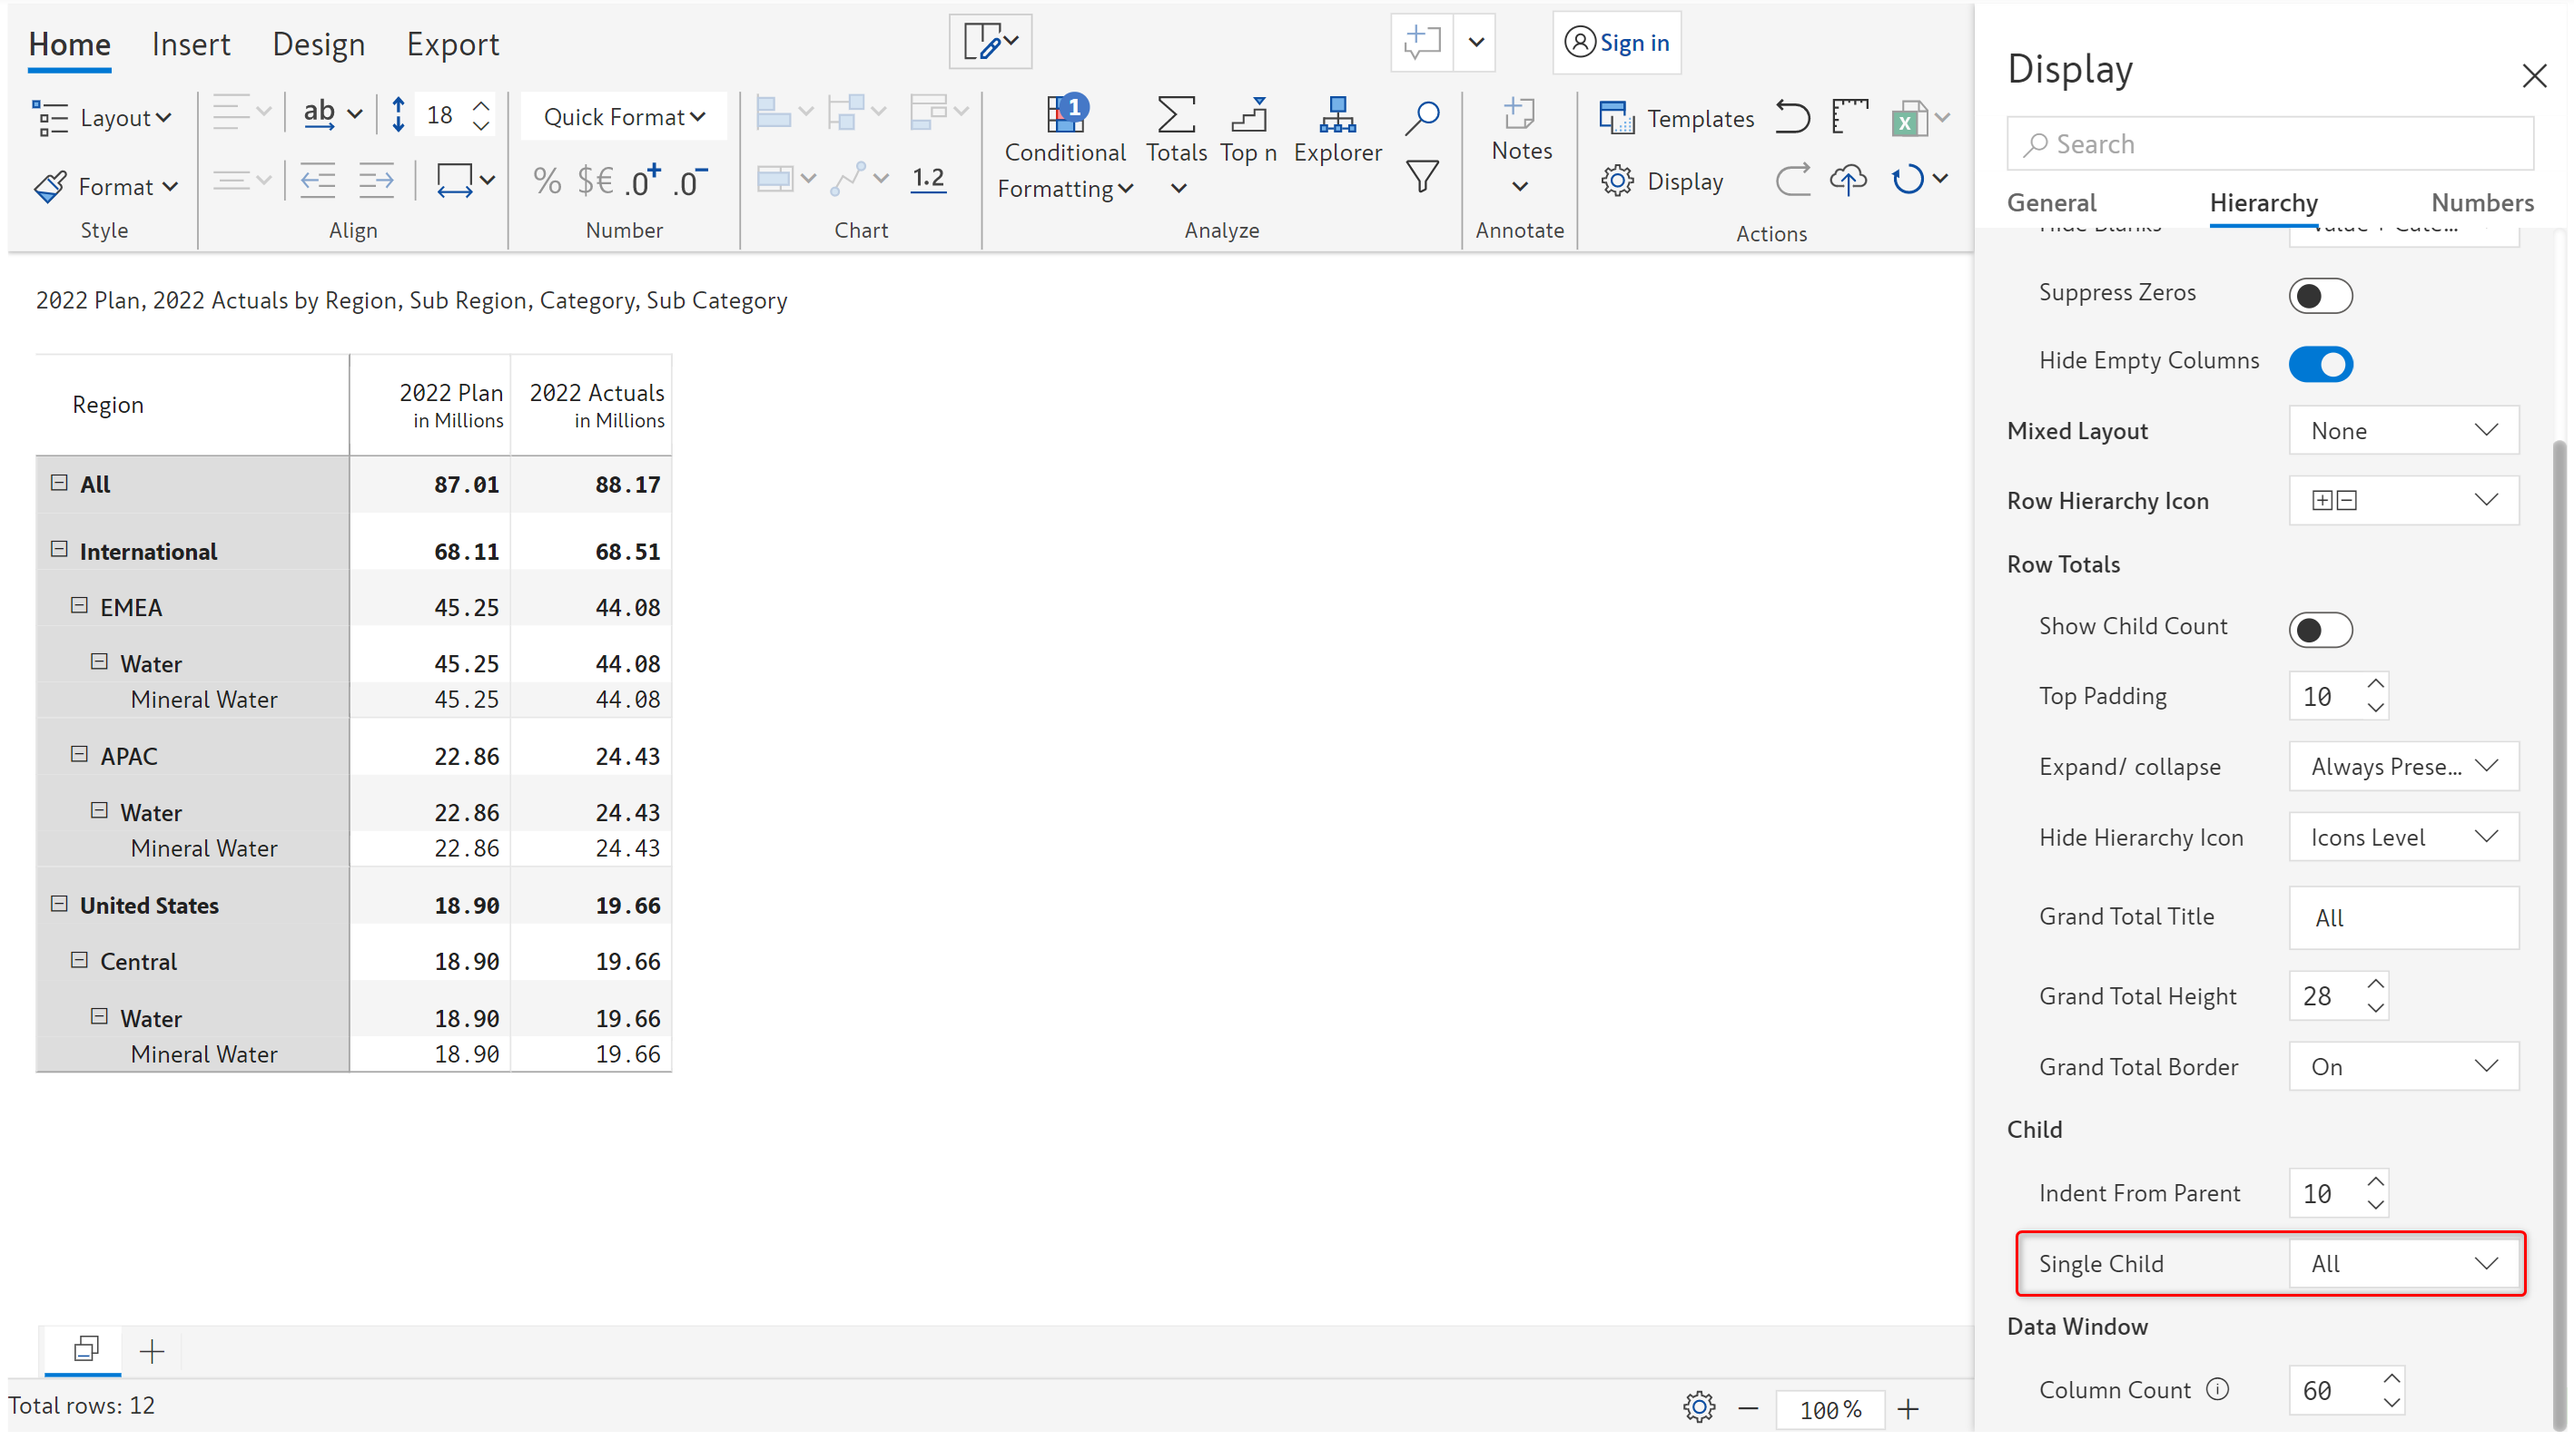
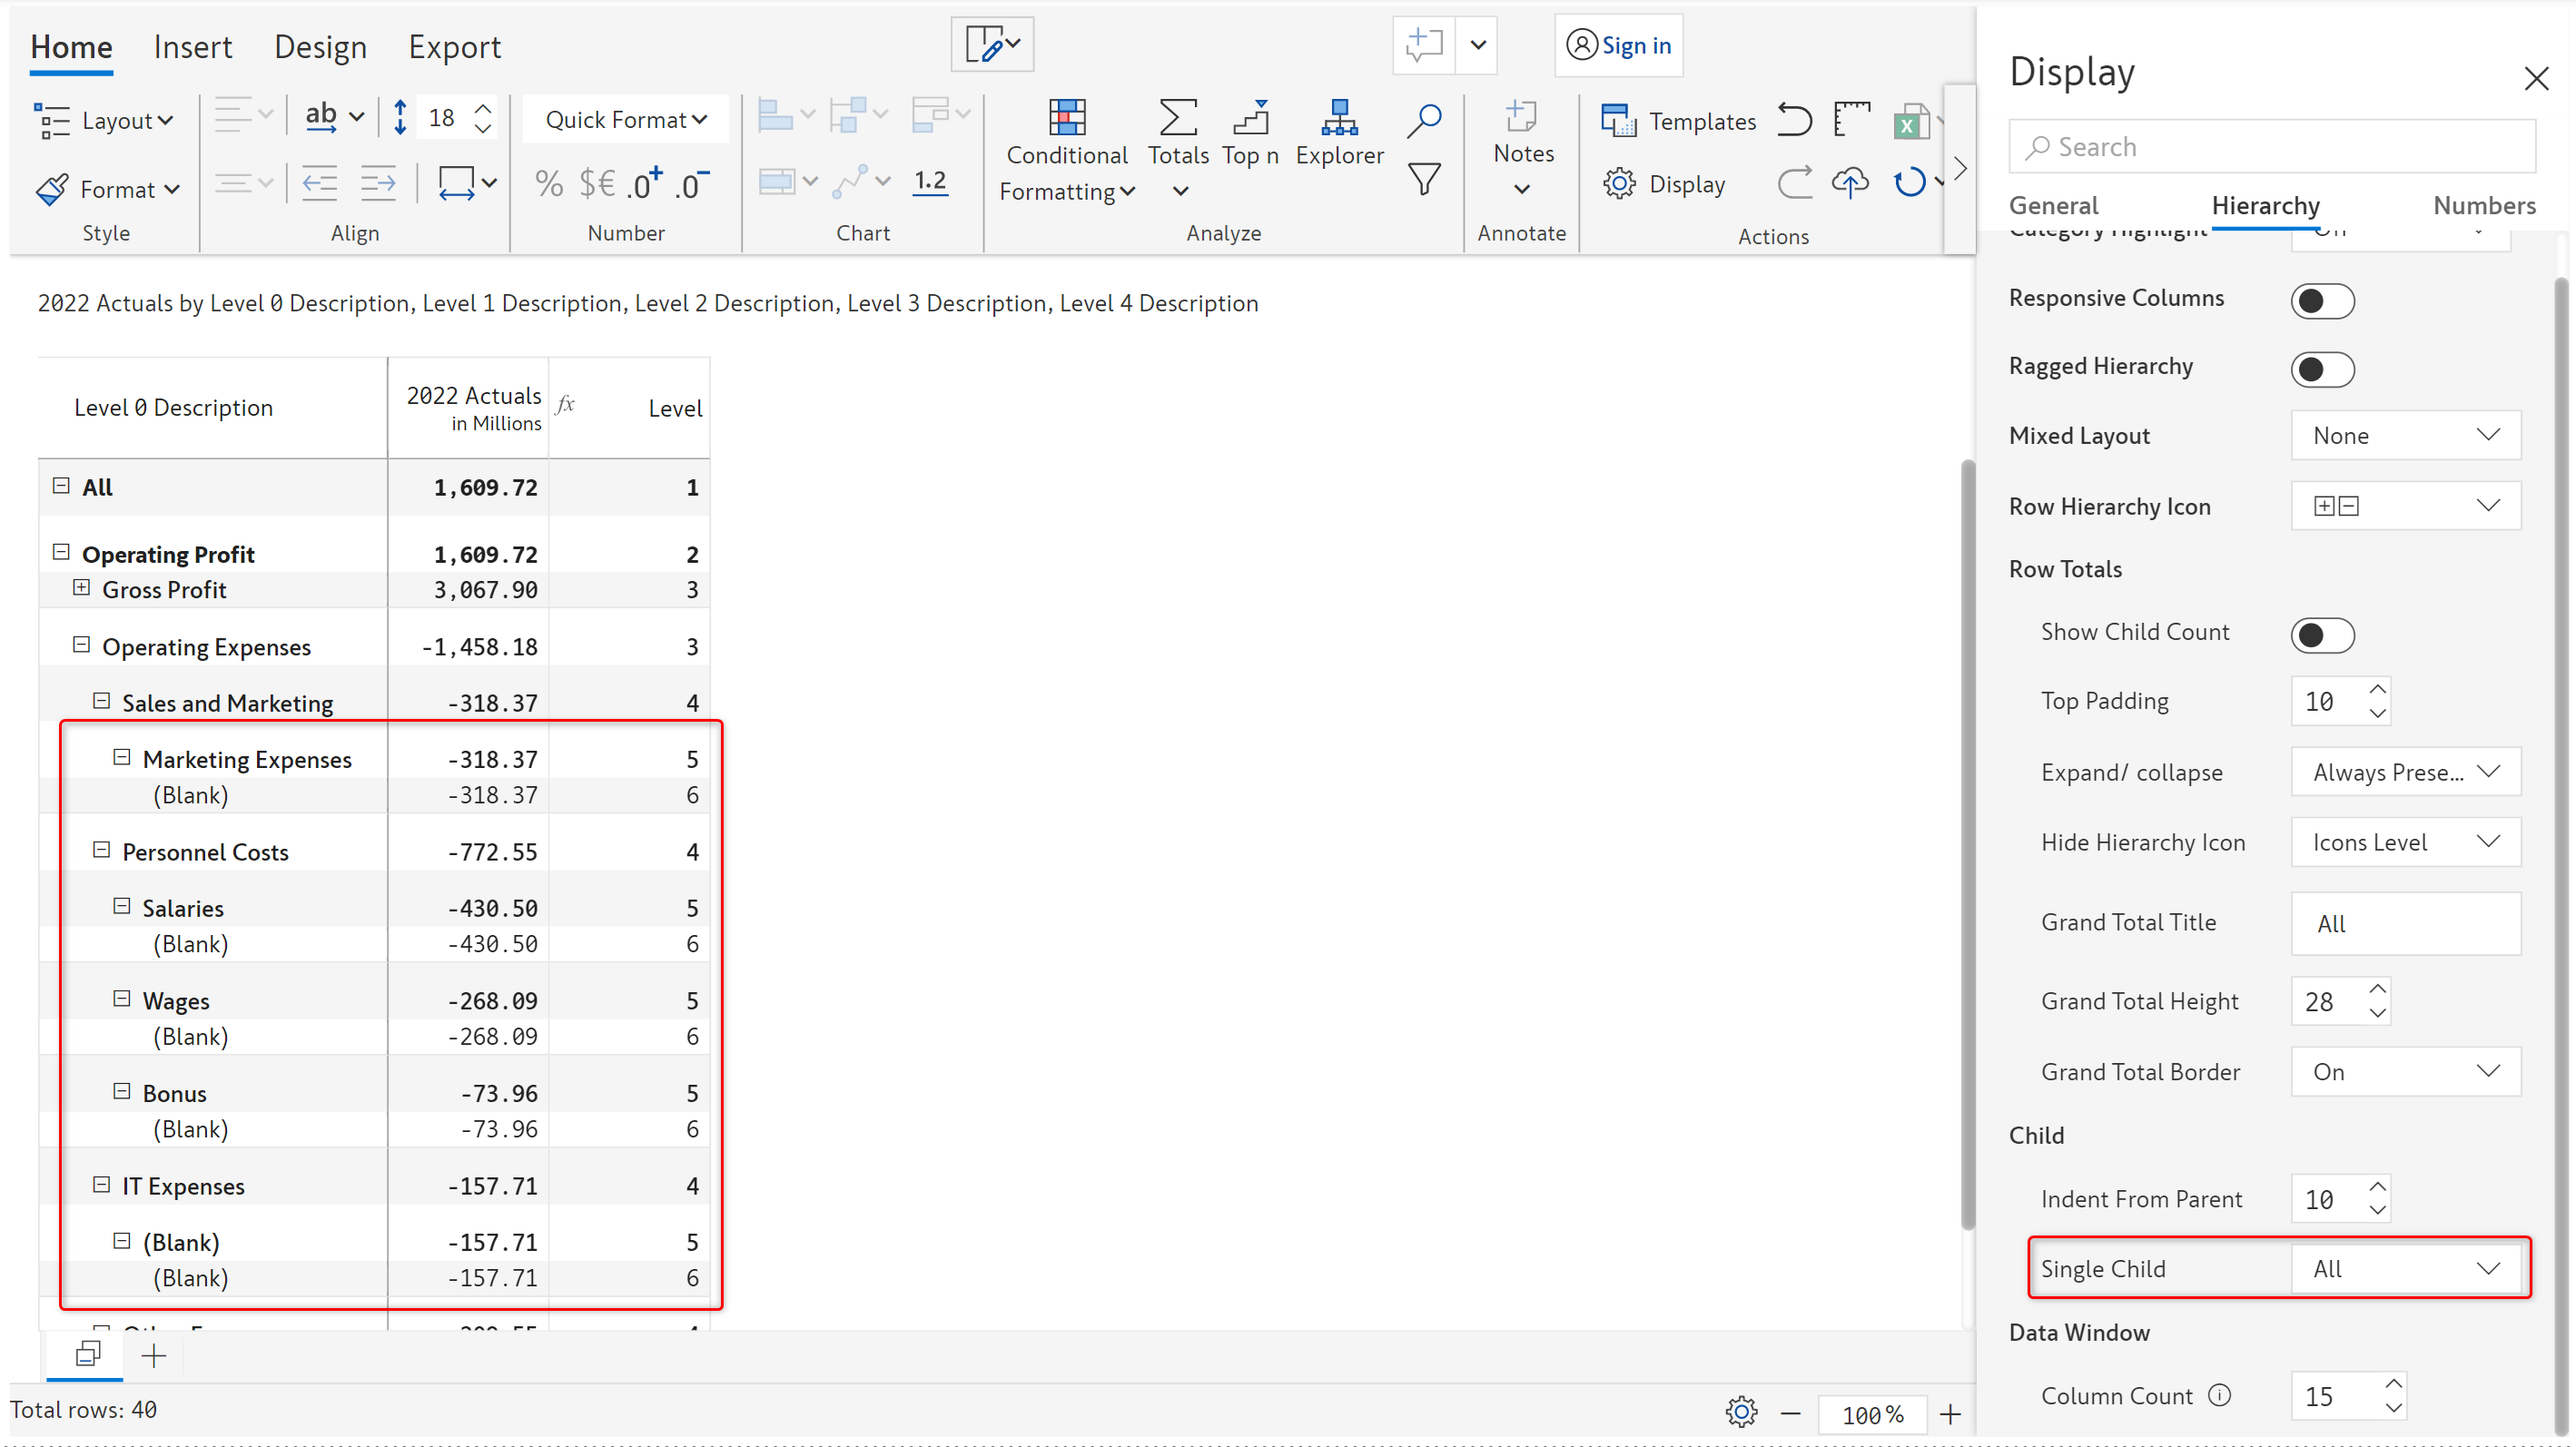
GitBook: [#192] Hierarchy

diff --git a/inforiver-matrix-faqs.md b/inforiver-matrix-faqs.md
@@ -1,8 +1,8 @@
-# Inforiver Matrix
+# Inforiver Matrix FAQs
 
 #### 1.  How do I purchase Inforiver Matrix? <a href="#headline-592-2838" id="headline-592-2838"></a>
 
-Visit Microsoft Appsource to purchase licenses for [Inforiver Matrix](https://appsource.microsoft.com/en-us/product/power-bi-visuals/xviz.inforiver-premium?tab=Overview). Subscription is available by tier and the fee varies based on the plans. To learn how to set up, pay for, and manage licenses for custom Power BI visuals purchased from [AppSource](https://appsource.microsoft.com/), refer to this [article](https://learn.microsoft.com/en-us/power-bi/developer/visuals/licensing-faq).
+Visit Microsoft Appsource to purchase licenses for [Inforiver Matrix](https://appsource.microsoft.com/en-us/product/power-bi-visuals/xviz.inforiver-premium?tab=Overview). Subscription is available by tier and the fee varies based on the plans. To learn how to set up, pay for, and manage licenses for custom Power BI visuals purchased from AppSource, refer to this [article](https://learn.microsoft.com/en-us/power-bi/developer/visuals/licensing-faq).
 
 For other Inforiver licensing-related queries, visit the [General FAQ](https://inforiver.com/faq/) page.
 
@@ -26,7 +26,7 @@ With our enterprise edition – you can save your theme, settings, etc., and it 
 
 #### 6. Can I use Inforiver for budgeting/forecasting? <a href="#headline-608-2838" id="headline-608-2838"></a>
 
-YES. With Inforiver Premium Matrix and Enterprise, you can input and create new budgets or forecasts in seconds. Specifically, you can (a) Create forecasts based on past sales data, (b) Create forecasts from a blank template, (c) Allocate forecasts across countries or product categories proportional to past performance, (d) Perform dynamic what-if simulations to adjust forecasts using a slider interface (e) Comment and annotate on budgets, forecasts, plan, or variance data points, and (f) writeback forecast data along with notes & comments.
+Yes. With Inforiver Premium Matrix and Enterprise, you can input and create new budgets or forecasts in seconds. Specifically, you can (a) Create forecasts based on past sales data, (b) Create forecasts from a blank template, (c) Allocate forecasts across countries or product categories proportional to past performance, (d) Perform dynamic what-if simulations to adjust forecasts using a slider interface (e) Comment and annotate on budgets, forecasts, plan, or variance data points, and (f) writeback forecast data along with notes & comments.
 
 Note: Points e and f are supported only in Inforiver Enterprise
 
@@ -45,7 +45,7 @@ We also recommend that you don’t compare the performance of Inforiver matrix v
 
 #### 8. Is there a limit to the number of pages that can be exported? <a href="#headline-652-2838" id="headline-652-2838"></a>
 
-We offer a formatted and paginated export solution. So, there is a limit of 30k rows for Excel and 1000 pages for PDF for performance and fidelity reasons on the quality of the export.
+We offer a formatted and paginated export solution. So, there is a limit of 30k rows for Excel and 10MB for PDF for performance and fidelity reasons on the quality of the export.
 
 #### 9. What are the collaboration options available? <a href="#headline-612-2838" id="headline-612-2838"></a>
 
@@ -75,8 +75,8 @@ Inforiver [scheduler](https://inforiver.com/schedule-reports-powerbi/) supports 
 
 #### 13. Can we build our own product incorporating Inforiver and sell it to our customers for a license or subscription free? (OEM licensing) <a href="#headline-656-4516" id="headline-656-4516"></a>
 
-Yes. For bundling (OEM) Inforiver fully or partially with your own products or services to your customers or any third party, a separate licensing plan is available. This would be based on the number of developers or customers. [Contact us](https://inforiver.com/contact-us/) to learn more.
+Yes. For bundling (OEM) Inforiver fully or partially with your own products or services to your customers or any third party, a separate licensing plan is available on the [Inforiver website](https://inforiver.com/matrix/pricing/). This would be based on the number of developers or customers.&#x20;
 
 #### 14. Can we build Power BI reports which can be consumed by external organizations for a service fee? (Embedded licensing) <a href="#headline-673-4516" id="headline-673-4516"></a>
 
-Yes. For embedding Inforiver fully or partially with your own products or services, a separate licensing plan is available. This would be based on the number of developers. [Contact us](https://inforiver.com/contact-us/) to learn more.
+Yes. For embedding Inforiver fully or partially with your own products or services, a separate licensing plan is available on the [Inforiver website](https://inforiver.com/matrix/pricing/). This would be based on the number of developers.&#x20;

diff --git a/display-settings/hierarchy-settings.md b/display-settings/hierarchy-settings.md
@@ -171,27 +171,35 @@ In the image below, every child row has been indented from its parent row by the
 
 #### Single child&#x20;
 
-Using this option you can select which nodes to display when a parent hierarchy has only one child. In this example, there is only one subcategory 'Mineral Water' and one sub-region 'Central' in United States. Let's see how this subcategory and subregion are displayed for each of the options.
+Using this option you can select which nodes to display when a parent hierarchy has only one child. In this example, we have a multi-level account hierarchy with several single-child rows and blank rows.&#x20;
 
-* **All** - Displays all the rows i.e the parent rows and the single child rows. Mineral water and Central rows are shown.
+The sales and marketing expenses row has only one child. The personnel cost row's child rows have blank rows. Let's see how this report is displayed for each of the options.
+
+* **All** - Displays all the rows i.e the parent rows and the single child rows. There are blank rows at levels 5 and 6.
 
 <figure><img src="../.gitbook/assets/Single child all.png" alt=""><figcaption><p>Single child - All</p></figcaption></figure>
 
-* **Parent only** - Displays the parent nodes of the single child. The 'Mineral water' row is not shown but 'Central' is shown.
+* **Parent only** - Displays the parent nodes of the single child. The blank rows at level 6 have all been hidden as shown below. The blank rows at level 5 are still shown.&#x20;
 
 <figure><img src="../.gitbook/assets/Single child parent only.png" alt=""><figcaption><p>Single child - Parent only</p></figcaption></figure>
 
-* **Parent (Multi-level) -** Displays only the highest level row of the multi-level hierarchy. Both 'Mineral water' and 'Central' are not shown.
+* **Parent (Multi-level) -** Displays only the highest level row of the multi-level hierarchy. The blank rows at both levels 5 and 6 are not shown.&#x20;
 
-<figure><img src="../.gitbook/assets/Single child parent multilevel.png" alt=""><figcaption><p>Single child - Parent multi-level</p></figcaption></figure>
+<figure><img src="../.gitbook/assets/Single child parent multilevel (1).png" alt=""><figcaption><p>Single child - Parent multi-level</p></figcaption></figure>
 
-* **Single child level as parent -** Displays the single child as the parent of its level
+* **Single child level as parent -** Displays the single child as the parent of its level.&#x20;
+
+We are taking a different scenario to explain the single child level as parent and single child as parent options. As you can see below, under Operating expenses we have filtered only IT expenses. You can see blanks at levels 5 and 6.
+
+<figure><img src="../.gitbook/assets/Single child level as parent 1.png" alt=""><figcaption><p>Single child at level 4</p></figcaption></figure>
+
+On selecting 'Single child level as parent', you can see that the level 6 blank row is shown as the child for the level 4 row.
 
 <figure><img src="../.gitbook/assets/Single child level as parent.png" alt=""><figcaption><p>Single child level as parent</p></figcaption></figure>
 
-* **Single child as parent -** Displays only the single child at the lowest level. Only 'Mineral water' is shown.&#x20;
+* **Single child as parent -** Displays only the single child at the lowest level. The blank row at level 6 is shown as the child for the level 3 row.
 
-<figure><img src="../.gitbook/assets/Single child as parent.png" alt=""><figcaption><p>Single child as parent</p></figcaption></figure>
+<figure><img src="../.gitbook/assets/Single child as parent 1 (1).png" alt=""><figcaption><p>Single child as parent</p></figcaption></figure>
 
 ## x) Data window
 

diff --git a/inforiver-enterprise-faqs.md b/inforiver-enterprise-faqs.md
@@ -32,6 +32,10 @@ Inforiver requires certain permissions to access resources in your organization 
 
 Your office 365 administrator has restricted you to use apps that have been consented to by one of the administrators. Follow the steps outlined [here](https://lumel.notion.site/Microsoft-Login-Admin-Consent-b3b8eea861ff4070ab0d586f0b5cc3d7) for your administrator to approve.&#x20;
 
+#### 8. How to resolve the error that shows 'connection timed out' when trying to connect to databases? <a href="#headline-953-4237" id="headline-953-4237"></a>
+
+Your IT Team must whitelist _addons.inforiver.com_ to enable Inforiver to connect with various destinations from your server.
+
 ### B) Writeback
 
 #### 1. Do I have to bring my own database for the writeback? <a href="#headline-795-4237" id="headline-795-4237"></a>
@@ -146,7 +150,7 @@ Yes. With the built-in page break feature in Inforiver – the scheduler can han
 
 #### 8. Is there a way to call/reference the filter on the Email subject or body? <a href="#headline-746-4237" id="headline-746-4237"></a>
 
-Yes, report filters can be included in the email subject/body – refer <mark style="color:red;">post</mark> for more details.&#x20;
+Yes, report filters can be included in the email subject/body.&#x20;
 
 #### 9. Can I manually email the paginated reports without requiring Inforiver Enterprise? <a href="#headline-744-4237" id="headline-744-4237"></a>
 
